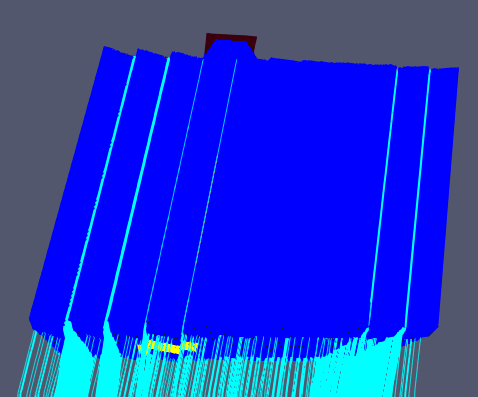
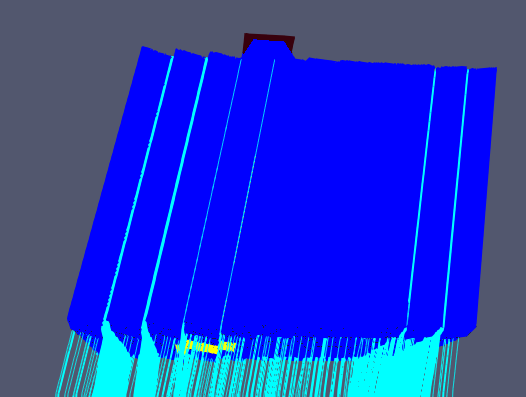
Fixing SCO4 images resolution

diff --git a/index.html b/index.html
@@ -33,7 +33,7 @@
 					<img style="width: 80%" src="./resources/optical/sco1_parabolic/heatmap_L.png">
 				</section>
 				<section>
-					<h2>SCO1-parabolic: Absorber equation</h2>
+					<h2>SCO1-parabolic: Absorber equation, $max(\gamma)$</h2>
 					<div class="container">
 						<div class="col">
 							<img src="./resources/optical/sco1_parabolic/linear_fit_left.png">
@@ -62,7 +62,7 @@
 					<img style="width: 80%" src="./resources/optical/sco1_CPC/Linear/heatmap_L.png">
 				</section>
 				<section>
-					<h2>SCO1-CPC: Linear absorber path</h2>
+					<h2>SCO1-CPC: Linear absorber path, $max(\gamma)$</h2>
 					<div class="container">
 						<div class="col">
 							<img src="./resources/optical/sco1_CPC/Linear/linear_fit_left.png">
@@ -223,6 +223,7 @@
 							<ul>
 								<li>7 x 11 mirror array in landscape orientation</li>
 								<li>0.14 x 0.14 cm mirror facet</li>
+								<li>2 mm spacing between mirrors</li>
 								<li>0.25 x 0.25 cm receiver</li>
 								<li>1.5 m receiver height (above mirror array center)</li>
 							</ul>
@@ -256,46 +257,25 @@
 				</section>
 				<section>
 					<h2>SCO4: Absorbed flux</h2>
-					<div class="container">
-						<div class="col">
-							<img src="./resources/optical/sco4/transversal/absorbed_flux.png">
-						</div>
-						<div class="col">
-							<img src="./resources/optical/sco4/longitudinal/absorbed_flux.png">
-						</div>
-					</div>
+					<img style="width: 80%;" src="./resources/optical/sco4/both/absorbed_flux.png">
 				</section>
 				<section>
-					<h2>SCO4: Flux distribution - ideal</h2>
+					<h2>SCO4: Losses</h2>
 					<div class="container">
 						<div class="col">
-							<img src="./resources/optical/sco4/heatmaps/ideal-plain/heatmap_90_0.png">
-							Normal incidence
+							<img src="./resources/optical/sco4/paraview/transversal_90_0.png">
+							$\theta_z = 0^{\circ}$
 						</div>
 						<div class="col">
-							<img src="./resources/optical/sco4/heatmaps/ideal-plain/heatmap_135_0.png">
-							$45 ^{\circ}$ transversal
+							<img src="./resources/optical/sco4/paraview/transversal_100_0.png">
+							$\theta_z = 10^{\circ}$
+						</div>
+						<div class="col">
+							<img src="./resources/optical/sco4/paraview/transversal_130_0.png">
+							$\theta_z = 40^{\circ}$
 						</div>
 					</div>
 				</section>
-				<section>
-					<h2>SCO4: Flux distribution - errors</h2>
-					<ul>
-						<li>Pillbox sun shape 4.65 mrad</li>
-						<li>Mirror surface slope error 7 mrad</li>
-					</ul>
-					<div class="container">
-						<div class="col">
-							<img src="./resources/optical/sco4/heatmaps/all_errors/heatmap_90_0.png">
-							Normal incidence
-						</div>
-						<div class="col">
-							<img src="./resources/optical/sco4/heatmaps/all_errors/heatmap_135_0.png">
-							$45 ^{\circ}$ transversal
-						</div>
-					</div>
-				</section>
-
 				<section>
 					<h2>SCO4: Shadow losses</h2>
 					<div class="container">
@@ -315,10 +295,41 @@
 					<h2>SCO4: Missing Losses</h2>
 					<div class="container">
 						<div class="col">
-							<img src="./resources/optical/sco4/paraview/transversal_90_0_missing.png">
+							<img style="height: 70%;"
+								src="./resources/optical/sco4/paraview/transversal_90_0_missing.png">
 						</div>
 						<div class="col">
-							<img src="./resources/optical/sco4/transversal/missing_losses.png">
+							<img src="./resources/optical/sco4/both/missing_losses.png">
+						</div>
+					</div>
+				</section>
+				<section>
+					<h2>SCO4: Flux distribution - ideal</h2>
+					<div class="container">
+						<div class="col">
+							<img src="./resources/optical/sco4/heatmaps/ideal-plain/heatmap_90_0.png">
+							$\theta_z = 0^{\circ}$
+						</div>
+						<div class="col">
+							<img src="./resources/optical/sco4/heatmaps/ideal-plain/heatmap_135_0.png">
+							$\theta_z = 45 ^{\circ}$ transversal
+						</div>
+					</div>
+				</section>
+				<section>
+					<h2>SCO4: Flux distribution - errors</h2>
+					<ul>
+						<li>Pillbox sun shape 4.65 mrad</li>
+						<li>Mirror surface slope error 7 mrad</li>
+					</ul>
+					<div class="container">
+						<div class="col">
+							<img src="./resources/optical/sco4/heatmaps/all_errors/heatmap_90_0.png">
+							$\theta_z = 0^{\circ}$
+						</div>
+						<div class="col">
+							<img src="./resources/optical/sco4/heatmaps/all_errors/heatmap_135_0.png">
+							$\theta_z = 45 ^{\circ}$ transversal
 						</div>
 					</div>
 				</section>
@@ -342,13 +353,23 @@
 				</section>
 
 				<section>
+					<h2>ISO equation</h2>
 					<hr>
 					\[ \begin{split}
-					\dot m C_p \frac{(T_{out} - T_{in})}{A} & = F'\tau \alpha K_{dir} I_{dir} + F'\tau \alpha K_{dfu}
+					\dot m C_p \frac{(T_{out} - T_{in})}{A} & = F'\tau \alpha K_{dir} I_{dir} + F'\tau \alpha
+					K_{dfu}
 					I_{dfu} - c_1 (T_m - T_{amb}) \\
 					& - c_2 (T_m - T_{amb})^2 - c_3 v_w (T_m - T_{amb}) - c_6 v_w I_{glb} \\
 					& + c_4 [\epsilon_{longwave} - \sigma_{SB} (T_{amb}+273.15)^4] - c_5 \frac{dT_m}{dt}
 					\end{split} \]
+					<!-- $\require{\cancel}$
+					\[ \begin{split}
+					\dot m C_p \frac{(T_{out} - T_{in})}{A} & = F'\tau \alpha K_{dir} I_{dir} + F'\tau
+					\alpha K_{dfu}
+					\cancelto{0}{I_{dfu}} - c_1 (T_m - T_{amb}) \\
+					& - c_2 (T_m - T_{amb})^2 - \cancelto{0}{c_3} v_w (T_m - T_{amb}) - \cancelto{0}{c_6} v_w I_{glb} \\
+					& + \cancelto{0}{c_4 [\epsilon_{longwave} - \sigma_{SB} (T_{amb}+273.15)^4]} - c_5 \frac{dT_m}{dt}
+					\end{split} \] -->
 					<hr>
 					$$T_m = \frac{T{out} + T{in}}{2}$$
 
@@ -361,17 +382,22 @@
 					& = n_{0,rec} \cdot (\tau^2 \rho \gamma)_{con}
 					\end{split}
 
-					$$c_1 = \alpha_1 \frac{A_{rec}}{A_{con}}, c_2 = \alpha_2 \frac{A_{rec}}{A_{con}}, c_5 = m_{th}
+					$$c_1 = \alpha_1 \frac{A_{rec}}{A_{con}}, \quad c_2 = \alpha_2 \frac{A_{rec}}{A_{con}}, \quad c_5 =
+					m_{th}
 					\frac{A_{rec}}{A_{con}}$$
 				</section>
 
 				<section>
+					<h2>Modified ISO equation</h2>
 					Removing zero-terms:
 					<br>
 					$$\dot m C_p \frac{(T_{out} - T_{in})}{A} = F'\tau \alpha K_{dir} I_{dir} - c_1 (T_m - T_{amb}) -
 					c_2 (T_m - T_{amb})^2 - c_5 \frac{dT_m}{dt}$$
 					<br>
 					Substituting $T_{out} = 2T_m -Tin$ and solving for $\frac{dT_m}{dt}$ we get:
+					<br>
+					<br>
+					<br>
 					<hr>
 					$$ \frac{dT_m}{dt} = \frac{1}{c_5} [F'\tau \alpha K_{dir} I_{dir} - c_1 (T_m - T_{amb}) - c_2 (T_m -
 					T_{amb})^2 -2 \frac{\dot m C_p}{A} (T_{m} - T_{in})]$$

diff --git a/style.css b/style.css
@@ -1,5 +1,5 @@
  .header-right {
-   content: url(./resources/lapup.png);
+   content: url(./resources/logos/lapup.png);
    top: 0;
    height: 11%;
    width: 6%;
@@ -11,7 +11,7 @@
  }
 
  .header-left {
-   content: url(./resources/upatras.png);
+   content: url(./resources/logos/upatras.png);
    top: 0;
    height: 11%;
    width: 6%;

diff --git a/README.md b/README.md
@@ -1,19 +1,1 @@
-# Information on using github for the collection of eo4geo training material content 
-
-The following guidelines apply to eo4geo partners who contribute training material content on the basis of the Reveal JS template: 
-
-* <strong>To create your own training material </strong> deriving from the EO4GEO_RevealTemplate, follow the instructions below:
-   1.  Specify your GitHub Account or email in the T4.3 Training Material Speadsheet. Please put the account names of all persons who should be added to the repository in the according field, seperated by a comma.
-   2. A repository containing the "reveal template" will be made available to you ASAP. Within this repository, you can commit and manage your own contributions.
-   3. To check your progress and see a hosted version of your material, you can use GitHub Pages by going to settings -> Scroll down to GitHub Pages -> Choose "Master" as Source. Please note that it might take several minutes until changes you have made are rolled out to GitHub Pages. It is also advisable to check regularily if the hosting of the html works without issue on GitHub Pages. Small bugs or inconsitencies might not cause problems on your local machine, but cause severe issues as soon as the hmtl is hosted via the internet.
-   4. Images used in the slides are to be hosted on the eo4geo.sbg.ac.at file hosting server and referenced in the HTML code by link only. To upload images and receive a permalink to said images, use a SFTP/SSH Client like FileZilla and get into contact with simon.donike@sbg.ac.at to be provided with the login information.
-  
-* One repository for every entry on the T4.3 Training Material List is created, meaning one seperate slideshow for every "unit". If you want to combine several units to one repository, please contact simon.donike@sbg.ac.at
-* The template might be issue to updates and fixes. If this is the case, these changes will not be rolled out to your repository automatically. You can check if a merge via GitHub is possible without interference, but otherwise the adaptations need to be made in your repository manually. 
-* If you consider particular changes/adaptions to the template are necessary or advisable, please get in contact with PLUS.
-* <strong> Information on How-To Use Reveal and a channel for Q&A about the use of Reveal JS can be found in the folowing Slack channel: wp4_reveal_question_and_answer https://app.slack.com/client/T8X5JBEFJ/G015RL4SSUW  </strong>
-* In case of any confusion or problems with GitHub, feel free to contact simon.donike@sbg.ac.at
-
-
-
-
+# PHD-presentation
